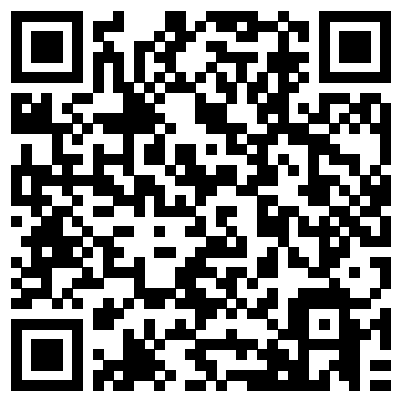
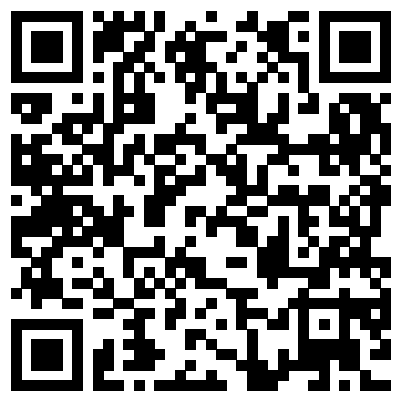
1111

diff --git a/scan.html b/scan.html
@@ -22,11 +22,11 @@
                 
                   <tr>
                     <td class="even" width="120">姓名：</td>
-                    <td class="odd" width="160">张三</td>
+                    <td class="odd" width="160">章健伟</td>
                   </tr>
                   <tr>
                     <td align="right">健康证号：</td>
-                    <td class="odd" id="healthCardNo">511422121907400774412596006</td>
+                    <td class="odd" id="healthCardNo">511422121110701211991328043</td>
                   </tr>
                   <tr>
                     <td align="right">体检结果：</td>
@@ -34,7 +34,7 @@
                   </tr>
                   <tr>
                     <td align="right">证件号码：</td>
-					<td class="odd" id="cardNo">**************0596</td>
+					<td class="odd" id="cardNo">**************7011</td>
                   </tr>
                   <!-- <tr>
                     <td align="right">联系电话：</td>
@@ -61,16 +61,17 @@
                     </tr>
                     <tr>
                         <td><i class="blue-line"></i>报告日期：</td>
-                        <td class="date-box" id="reportDate">2022-12-16</td>
+                        <td class="date-box" id="reportDate">2024-07-22</td>
                     </tr>
                     <tr>
                         <td><i class="blue-line"></i>有效日期：</td>
-                        <td class="date-box" id="effectiveData">2022-12-16</td>
+                        <!-- 比报告日期少一天 -->
+                        <td class="date-box" id="effectiveData">2025-07-21</td>
                     </tr>
-                   <!-- <tr>
+                   <tr>
                         <td><i class="blue-line"></i>上传日期：</td>
-                        <td class="date-box" id="createDate">2022-12-16</td>
-                    </tr> -->
+                        <td class="date-box" id="createDate">2024-07-22</td>
+                    </tr>
                 </table>
             </div>
             <div class="white-bhg" id="cause">

diff --git a/index.html b/index.html
@@ -15,12 +15,13 @@
             <div class="photo">
                 <img style="width: 82px;height: 102px;border:1px solid #89A7BB;" src="./img/myphoto.jpg" alt="照片">
             </div>
-            <p><span class="title">证&nbsp;&nbsp;&nbsp;&nbsp;&nbsp;&nbsp;&nbsp;号：</span>511422121907400774412596006</p>
-            <p><span class="title">姓&nbsp;&nbsp;&nbsp;&nbsp;&nbsp;&nbsp;&nbsp;名：</span>田振</p>
+            <!-- 511422121 110701211991328043 后面一段是身份号码反转 -->
+            <p><span class="title">证&nbsp;&nbsp;&nbsp;&nbsp;&nbsp;&nbsp;&nbsp;号：</span>511422121110701211991328043</p>
+            <p><span class="title">姓&nbsp;&nbsp;&nbsp;&nbsp;&nbsp;&nbsp;&nbsp;名：</span>章健伟</p>
             <p><span class="title">从业范围：</span>食品、饮用水、化妆品、公共场所</p>
             <p><span class="title">证件类型：</span>居民身份证</p>
-            <p><span class="title">证件号码：</span>412702197911050596</p>
-            <p><span class="title">发证日期：</span>2022-12-16</p>
+            <p><span class="title">证件号码：</span>340823199112107011</p>
+            <p><span class="title">发证日期：</span>2024-07-22</p>
             <p><span class="title">健康检查单位：</span>上海尚德医院</p>
         </div>
 

diff --git a/css/index.css b/css/index.css
@@ -3,7 +3,7 @@ body {
     background-color: #f2f2f2;
     display: flex;
     justify-content: center;
-    align-items: center;
+    /* align-items: center; */
     height: 100vh;
     margin: 0;
     font-size:13px;
